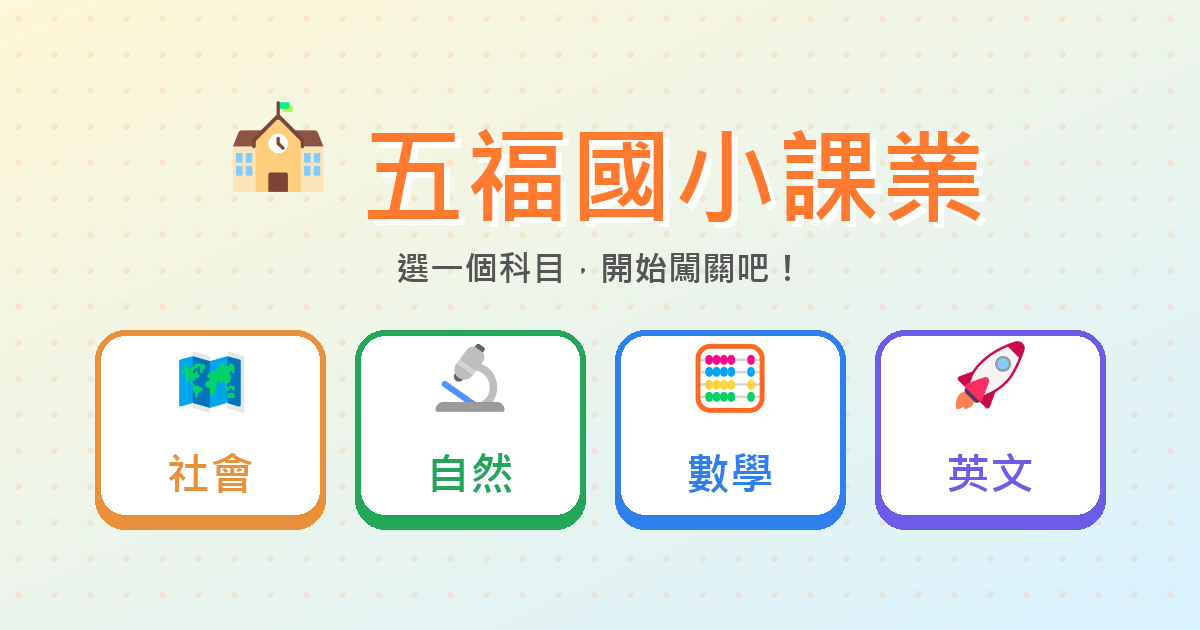
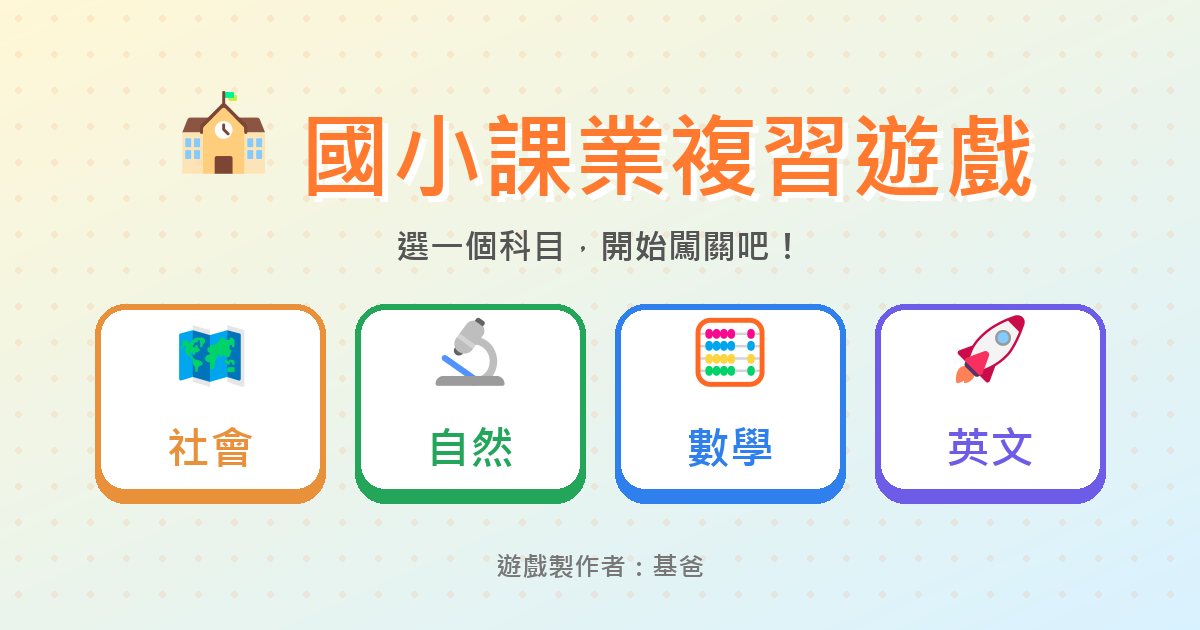
Hub: rename to 國小課業複習遊戲, add progress note and maker 基爸, drop school name

Changed region(s): [[0.0617, 0.4825, 0.925, 0.8444], [0.1542, 0.1508, 0.8633, 0.4524], [0.4008, 0.8746, 0.5858, 0.9349]]

diff --git a/index.html b/index.html
@@ -3,12 +3,12 @@
 <head>
 <meta charset="UTF-8">
 <meta name="viewport" content="width=device-width, initial-scale=1">
-<title>五福國小課業</title>
-<meta name="description" content="五福國小學習遊戲：社會、自然、數學、英文，選一個科目開始闖關吧！">
+<title>國小課業複習遊戲</title>
+<meta name="description" content="國小課業複習遊戲：社會、自然、數學、英文，選一個科目開始闖關吧！">
 <!-- 分享連結時的預覽卡片（LINE、Facebook、Messenger 等） -->
 <meta property="og:type" content="website">
 <meta property="og:url" content="https://kuog88.github.io/">
-<meta property="og:title" content="五福國小課業">
+<meta property="og:title" content="國小課業複習遊戲">
 <meta property="og:description" content="社會、自然、數學、英文學習遊戲，選一個科目開始闖關吧！">
 <meta property="og:image" content="https://kuog88.github.io/og.png">
 <meta property="og:image:width" content="1200">
@@ -27,7 +27,8 @@
     padding: 48px 16px;
   }
   h1 { font-size: clamp(30px, 7vw, 48px); color: #ff7a2f; text-shadow: 3px 3px 0 #fff; }
-  .sub { margin: 10px 0 40px; font-size: 18px; color: #555; }
+  .sub { margin: 10px 0 6px; font-size: 18px; color: #555; }
+  .note { margin: 0 0 36px; font-size: 15px; color: #8a6d3b; text-align: center; }
   .grid {
     display: grid; gap: 24px; width: 100%; max-width: 1080px;
     grid-template-columns: repeat(auto-fit, minmax(220px, 1fr));
@@ -59,12 +60,13 @@
   .card.soon { cursor: default; opacity: .6; filter: grayscale(.4); }
   .card.soon:hover { transform: none; box-shadow: 0 8px 0 var(--c); }
   .card.soon .go { background: #aaa; }
-  footer { margin-top: 48px; font-size: 14px; color: #888; }
+  footer { margin-top: 48px; font-size: 15px; color: #777; }
 </style>
 </head>
 <body>
-  <h1>🏫 五福國小課業</h1>
+  <h1>🏫 國小課業複習遊戲</h1>
   <p class="sub">選一個科目，開始闖關吧！</p>
+  <p class="note">（請依照各學校教學進度內容，調整單元闖關順序）</p>
 
   <div class="grid">
     <a class="card social" href="https://kuog88.github.io/social-puzzle/">
@@ -89,7 +91,7 @@
     </a>
   </div>
 
-  <footer>五福國小 · 社會／自然／數學／英文</footer>
+  <footer>社會／自然／數學／英文 · 遊戲製作者：基爸</footer>
 <script src="https://kuog88.github.io/bgm.js" defer></script>
 </body>
 </html>
